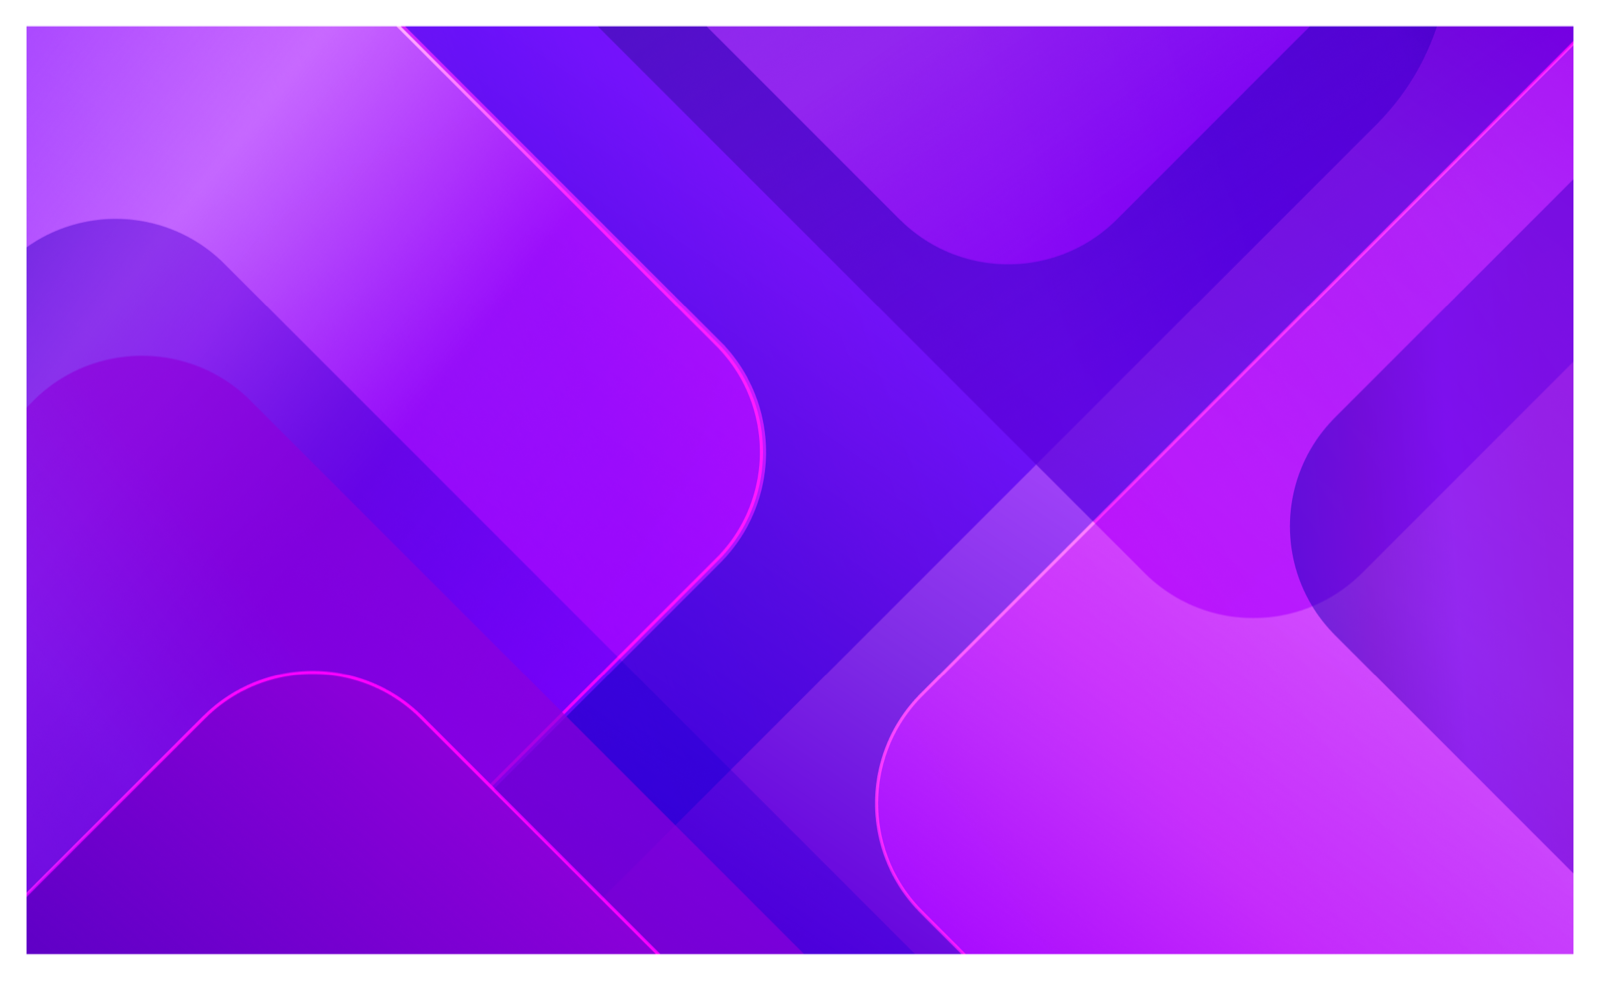
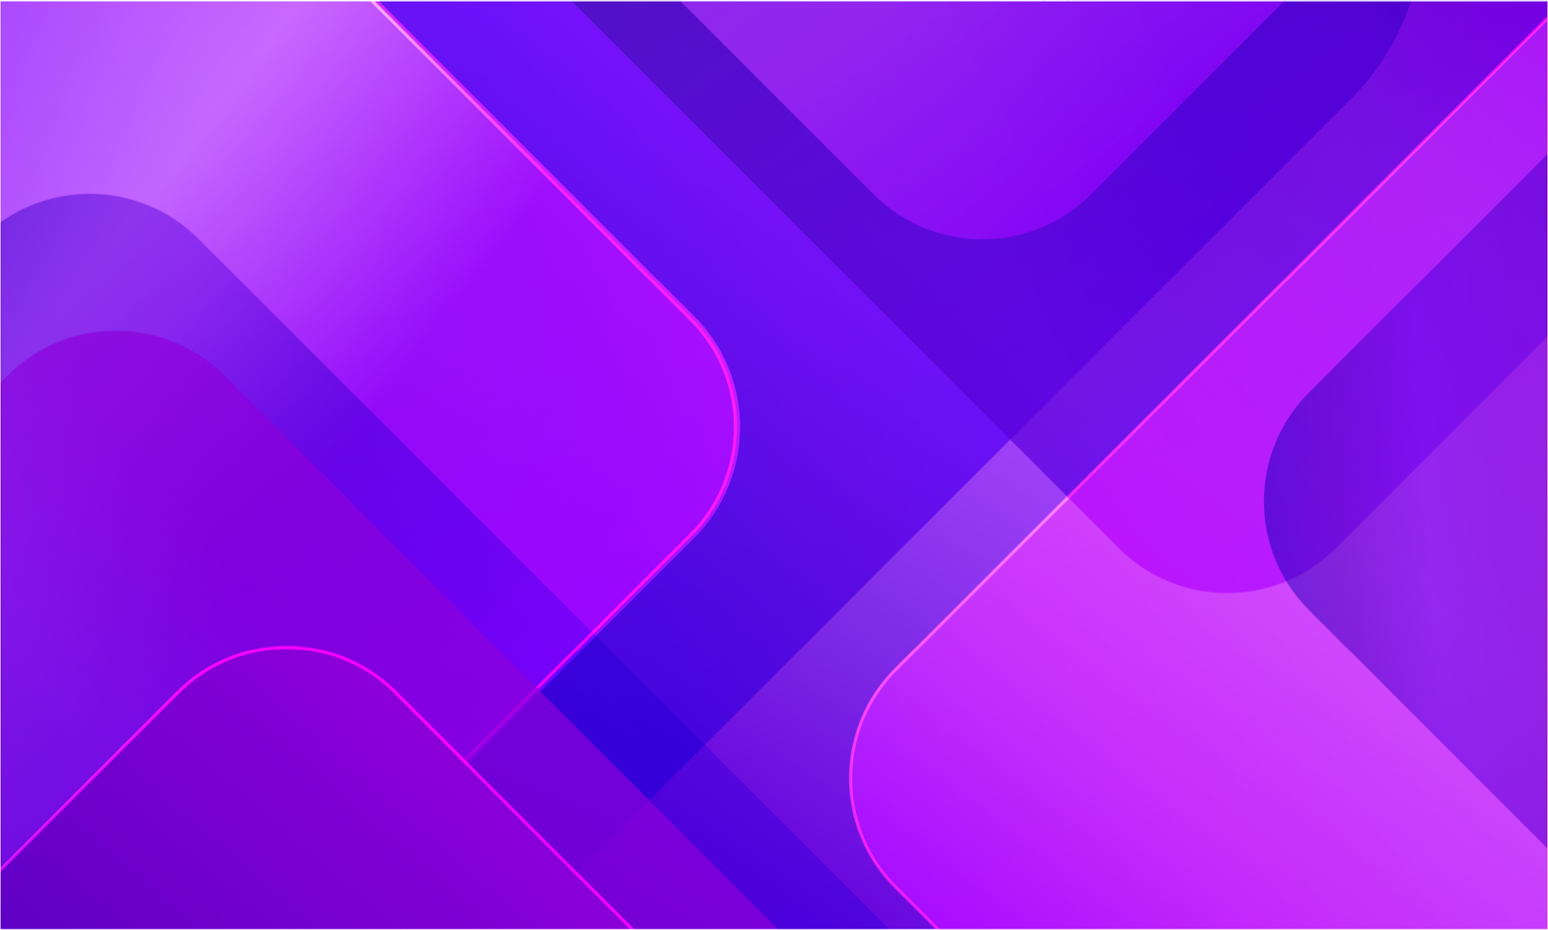
Fix hero full-bleed art and USP plain arrows
- Crop brand bg and make white canvas transparent so section purple fills edges
- USP nav: plain Material arrows (no circular pills); inactive gray / active purple
- Equal-height USP cards via flex stretch (drop height:100% that blocked it)

diff --git a/app/globals.css b/app/globals.css
@@ -2501,6 +2501,8 @@ a {
   width: var(--component-card-usp-min-width); /* 276 */
   min-width: var(--component-card-usp-min-width);
   max-width: var(--component-card-usp-max-width); /* 296 */
+  /* Equal-height row: stretch cross-axis; do NOT use height:100% (breaks stretch) */
+  align-self: stretch;
   height: auto;
   min-height: var(--component-card-usp-min-height); /* 364 */
   scroll-snap-align: start;
@@ -2509,39 +2511,49 @@ a {
 .ui-usp-carousel__nav {
   display: inline-flex;
   align-items: center;
-  gap: var(--space-4); /* 16 between arrows */
+  gap: var(--space-6); /* 24 between plain arrows (Figma) */
 }
 
+/* Figma 29987:341441 — plain arrows only, no circular fill */
 .ui-usp-carousel__btn {
   display: inline-flex;
   align-items: center;
   justify-content: center;
-  width: 40px;
-  height: 40px;
+  width: auto;
+  height: auto;
+  min-width: 24px;
+  min-height: 24px;
   padding: 0;
   border: 0;
-  border-radius: var(--radius-pill);
-  background: var(--primitive-color-purple500);
-  color: var(--primitive-color-gray0);
+  border-radius: 0;
+  background: transparent;
+  color: var(--primitive-color-purple500);
   cursor: pointer;
-  transition:
-    background var(--motion-duration-fast) var(--motion-easing-standard),
-    opacity var(--motion-duration-fast) var(--motion-easing-standard);
+  transition: color var(--motion-duration-fast) var(--motion-easing-standard);
 }
 
 .ui-usp-carousel__btn:hover:not(:disabled) {
-  background: var(--primitive-color-purple600);
+  background: transparent;
+  color: var(--primitive-color-purple600);
 }
 
 .ui-usp-carousel__btn:disabled {
-  background: var(--primitive-color-gray300);
-  color: var(--primitive-color-gray500);
+  background: transparent;
+  color: var(--primitive-color-gray400);
   cursor: default;
 }
 
 .ui-usp-carousel__btn:focus-visible {
   outline: 2px solid var(--color-border-focus);
-  outline-offset: 2px;
+  outline-offset: 4px;
+  border-radius: var(--radius-sm);
+}
+
+.ui-usp-carousel__btn .ui-icon,
+.ui-usp-carousel__btn .material-symbols-outlined {
+  font-size: 24px;
+  width: 24px;
+  height: 24px;
 }
 
 .ui-card {
@@ -2575,7 +2587,8 @@ a {
   display: flex;
   flex-direction: column;
   width: 100%;
-  height: 100%;
+  /* height:auto + parent align-items:stretch → equal card row */
+  height: auto;
   min-height: var(--component-card-usp-min-height);
   padding: 0;
   border: 0;
@@ -2718,7 +2731,7 @@ a {
   background-position: center center;
   background-size: cover;
   background-repeat: no-repeat;
-  /* Fill brand band completely — avoid side crop gutters */
+  /* Full-bleed fill of brand band (asset cropped of white margins) */
   width: 100%;
   height: 100%;
   min-width: 100%;
@@ -2738,9 +2751,14 @@ a {
   position: relative;
   overflow: hidden;
   color: var(--color-text-on-accent);
-  /* Solid purple under art so edges never flash white if image crops */
+  /*
+   * Full-bleed brand band: solid purple under decorative art
+   * (art PNG has transparent edges after crop — no white gutters).
+   */
   background-color: var(--primitive-color-purple600);
   width: 100%;
+  max-width: none;
+  margin-inline: 0;
 }
 
 .ui-section--brand-bg .ui-container {

diff --git a/components/ui/UspCarousel.tsx b/components/ui/UspCarousel.tsx
@@ -75,7 +75,7 @@ export function UspCarousel({ children }: UspCarouselProps) {
           disabled={!canPrev}
           aria-label="Previous cards"
         >
-          <Icon name="west" size={20} />
+          <Icon name="west" size={24} />
         </button>
         <button
           type="button"
@@ -84,7 +84,7 @@ export function UspCarousel({ children }: UspCarouselProps) {
           disabled={!canNext}
           aria-label="Next cards"
         >
-          <Icon name="east" size={20} />
+          <Icon name="east" size={24} />
         </button>
       </div>
     </div>
